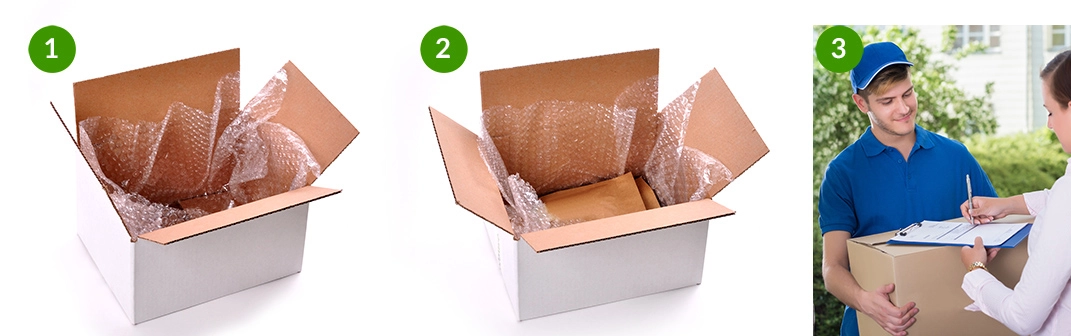
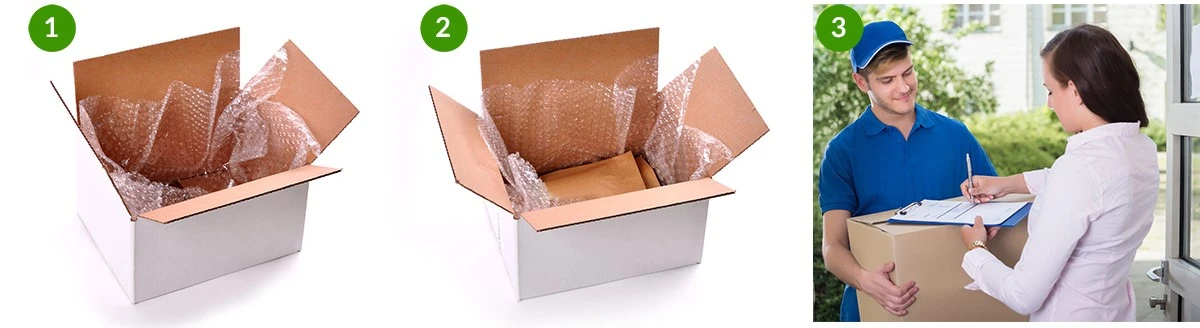
HowDoWePackage component created.

diff --git a/src/components/HowDoWePackage/HowDoWePackage.tsx b/src/components/HowDoWePackage/HowDoWePackage.tsx
@@ -1,0 +1,68 @@
+import style from './HowDoWePackage.module.css';
+
+export const HowDoWePackage = () => {
+
+  return (
+    <section className={style.container}>
+      <h1 className={style.title}>Jak pakujemy?</h1>
+      <img
+        className={style.textImage}
+        src="/images/photo/torebka-doypack.webp"
+        alt="zdjęcie przedstawiające opakowanie herbat"
+      />
+      <p className={style.text}>
+        Wiemy jak ważne jest, aby herbata lub kawa zachowała swój smak i aromat przez długi czas.
+      </p>
+      <p className={style.text}>
+        Dlatego <strong>produkty</strong> zamawiane w sklepie Herbaciany Zakątek <strong>pakujemy w eleganckie i
+        szczelne opakowania Doypack</strong>.
+      </p>
+      <p className={style.text}>
+        Opakowania Doypack są wyposażone w zamknięcie strunowe, które pozwala na wielokrotne otwieranie i zamykanie
+        produktu.
+      </p>
+      <p className={style.text}>
+        Opakowania te zapewniają skuteczną ochronę przed czynnikami zewnętrznymi. Natomiast wysoka barierowość
+        opakowań <strong>zapewnia zachowanie smaku, aromatu i wartości odżywczych przez długi czas</strong>.
+      </p>
+      <p className={style.text}>
+        Dbając o najwyższą jakość dostarczanego produktu opakowania są <strong>dodatkowo zgrzewane</strong>.
+      </p>
+      <p className={style.text}>
+        Na każdym opakowaniu znajdują się dwie etykiety przednia i tylna. Na opakowaniu znajdziemy pełną informacją o
+        produkcie - <strong>skład, instrukcję parzenia,</strong> kraj pochodzenia, wartości odżywcze oraz termin
+        przydatności do spożycia.
+      </p>
+      <p className={style.text}>
+        <strong>Wymiary opakowań:</strong>
+      </p>
+      <p className={style.text}>
+        <span>●</span> 110 x 65 x 185 mm<br/>
+        <span>●</span> 130 x 70 x 225 mm
+      </p>
+      <h2 className={style.textTitle}>Zalety opakowań Doypack</h2>
+      <img className={style.image}
+           src="/images/photo/opakowanie-doypack-zalety.webp"
+           alt="zdjęcie zalet opakowania doypack"
+      />
+      <h2 className={style.textTitle}>Pakowanie przesyłek</h2>
+      <p className={style.text}>
+        <strong>Dużą uwagę przywiązujemy do pakowania przesyłek.</strong> Starannie zabezpieczamy paczki, tak aby towar
+        dotarł do klienta w nienaruszonym stanie.
+      </p>
+      <p className={style.text}>
+        Produkty wkładane są do kartonowego pudełka i dodatkowo zabezpieczonego folią bąbelkową. Całość zaklejana jest
+        firmowymi taśmami i wysyłana do Państwa priorytetem.
+      </p>
+      <p className={style.text}>
+        Dzięki profesjonalnemu pakowaniu w naszych przesyłkach zamówione produkty są zawsze całe, a
+        <strong>Państwo mogą się cieszyć smakiem i aromatem przez długi czas.</strong>
+      </p>
+        <img
+          className={style.endImage}
+          src="/images/photo/pakowanie-paczek.webp"
+          alt="zdjęcie przedstawiające sposób pakowania paczek"
+        />
+    </section>
+  );
+};

diff --git a/src/components/Main/Main.tsx b/src/components/Main/Main.tsx
@@ -23,6 +23,7 @@ import { ContactViews } from '../../views/ContactViews';
 import { AboutUsViews } from '../../views/AboutUsViews';
 import { RegulationsViews } from '../../views/RegulationsViews';
 import { DeliveryAndPaymentViews } from '../../views/DeliveryAndPaymentViews';
+import { HowDoWePackageView } from '../../views/HowDoWePackageView';
 import { ReturnPolicyViews } from '../../views/ReturnPolicyViews';
 import { PrivacyPolicyViews } from '../../views/PrivacyPolicyViews';
 
@@ -38,6 +39,7 @@ export const Main = () => {
       <Route path="/about-us" element={<AboutUsViews/>}/>
       <Route path="/regulations" element={<RegulationsViews/>}/>
       <Route path="/delivery-and-payment" element={<DeliveryAndPaymentViews/>}/>
+      <Route path="/how-do-we-package" element={<HowDoWePackageView/>}/>
       <Route path="/return-policy" element={<ReturnPolicyViews/>}/>
       <Route path="/privacy-policy" element={<PrivacyPolicyViews/>}/>
 

diff --git a/src/components/HowDoWePackage/HowDoWePackage.module.css b/src/components/HowDoWePackage/HowDoWePackage.module.css
@@ -1,0 +1,65 @@
+.container {
+    padding: 10px 10px 40px;
+}
+
+.title {
+    margin: 10px 0 20px;
+    font-size: 2.4rem;
+    text-transform: uppercase;
+}
+
+.textImage,
+.image,
+.endImage {
+    position: relative;
+    left: 50%;
+    width: 100%;
+    transform: translateX(-50%);
+}
+
+.textImage {
+    max-width: 450px;
+}
+
+.image {
+    max-width: 900px;
+}
+
+.endImage {
+    max-width: 1200px;
+}
+
+.text {
+    margin-bottom: 10px;
+    font-size: 1.2rem;
+    text-align: justify;
+}
+
+.text span {
+    color: var(--primary-color);
+    margin-right: 5px;
+    line-height: .2rem;
+}
+
+.textTitle{
+    margin-bottom: 20px;
+}
+
+
+@media (min-width: 576px) {
+
+    .textImage {
+        position: static;
+        float: right;
+        margin-left: 20px;
+        width: 50%;
+        transform: translateX(0);
+    }
+}
+
+@media (min-width: 992px){
+
+    .container{
+        padding: 10px 20px 80px;
+    }
+}

diff --git a/src/views/HowDoWePackageView.tsx b/src/views/HowDoWePackageView.tsx
@@ -1,0 +1,8 @@
+import { HowDoWePackage } from "../components/HowDoWePackage/HowDoWePackage"
+
+export const HowDoWePackageView = () => {
+
+  return(
+    <HowDoWePackage/>
+  )
+}
